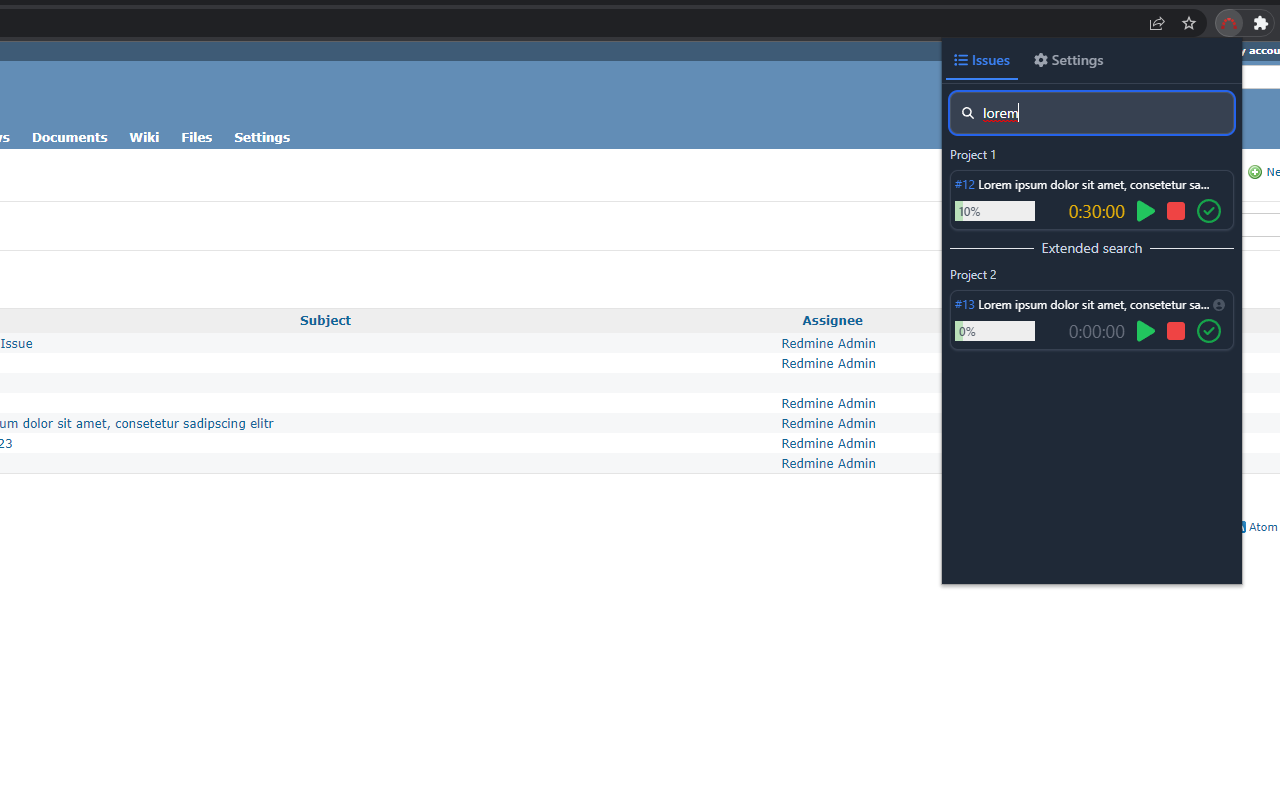
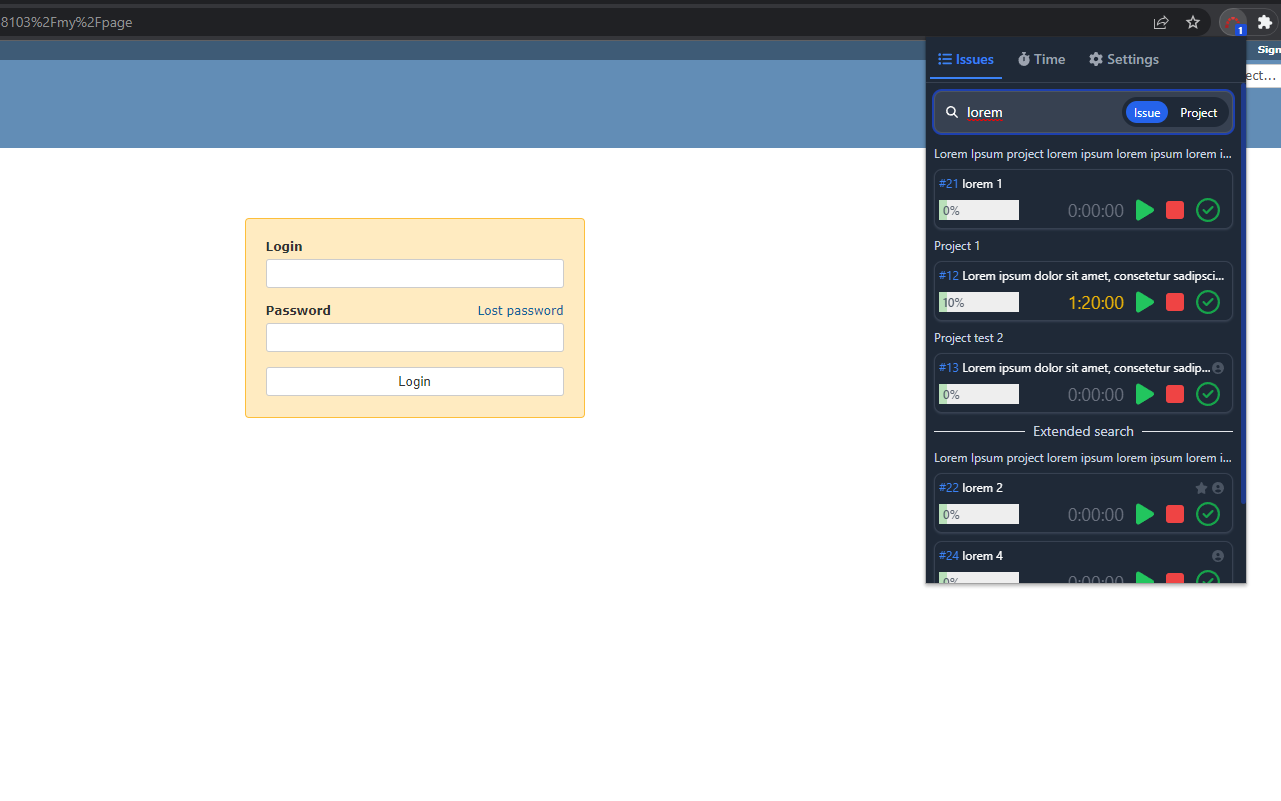
chore: Provide new screenshots

diff --git a/README.md b/README.md
@@ -24,7 +24,7 @@
 - Create entry for time spent in Redmine issue
 - Update done ratio
 - Round timer to nearest 15 min
-- Search for issue (press `CTRL` + `K` or `CTRL` + `F`)
+- Search for issue or project (press `CTRL` + `K` or `CTRL` + `F`)
 - Remember and forget issue (not assigned to you)
 - Pin and unpin issue
 - View time entries overview
@@ -37,7 +37,7 @@
 ![issues-search](screenshots/issues-search-dark.png)
 ![issues-create-time-spent](screenshots/issues-create-time-spent-dark.png)
 ![issues-context-menu](screenshots/issues-context-menu-dark.png)
-![issues-edit](screenshots/issues-edit-dark.png)
+![issues-edit](screenshots/time-dark.png)
 
 # Credits
 
